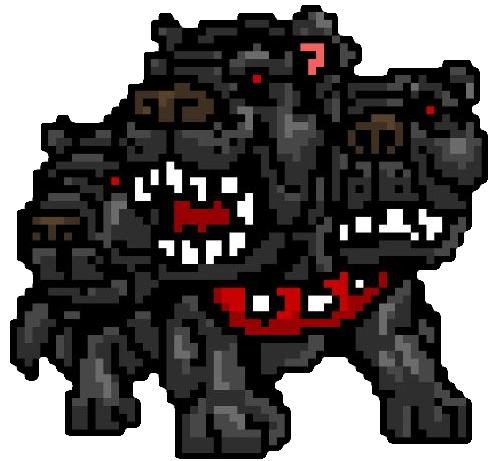
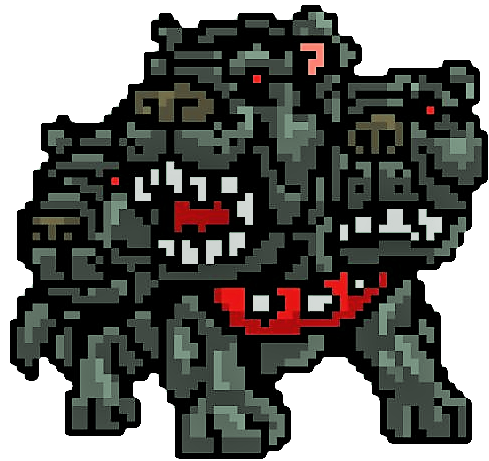
cerebrus and hades lighter. initial heart animation

Changed region(s): [[0.0307, 0.0304, 1.0, 1.0], [0.9202, 0.1215, 0.9816, 0.2126], [0.4908, 0.0304, 0.5521, 0.0607]]

diff --git a/public/styles.css b/public/styles.css
@@ -324,6 +324,15 @@ section .button__info, .button__instructions, .button__intro {
     margin-right: 30px;
     padding-top: 2%;
 }
+.img__heart:first-child {
+        animation: blinker 1s linear infinite;
+        animation-iteration-count: 4;
+}
+@keyframes blinker {
+    50% {
+      opacity: 0;
+    }
+  }
 
 .img__heart {
     width: 2rem;
